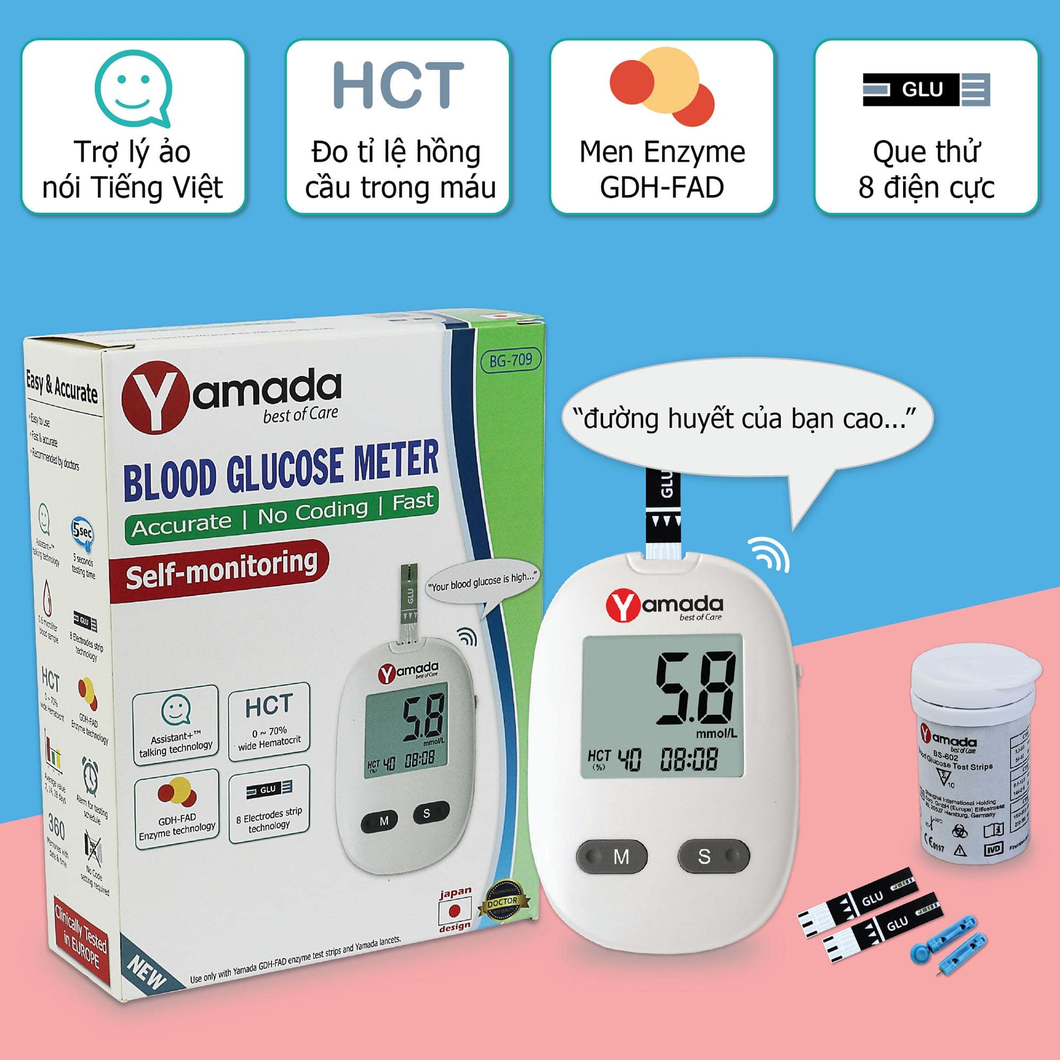
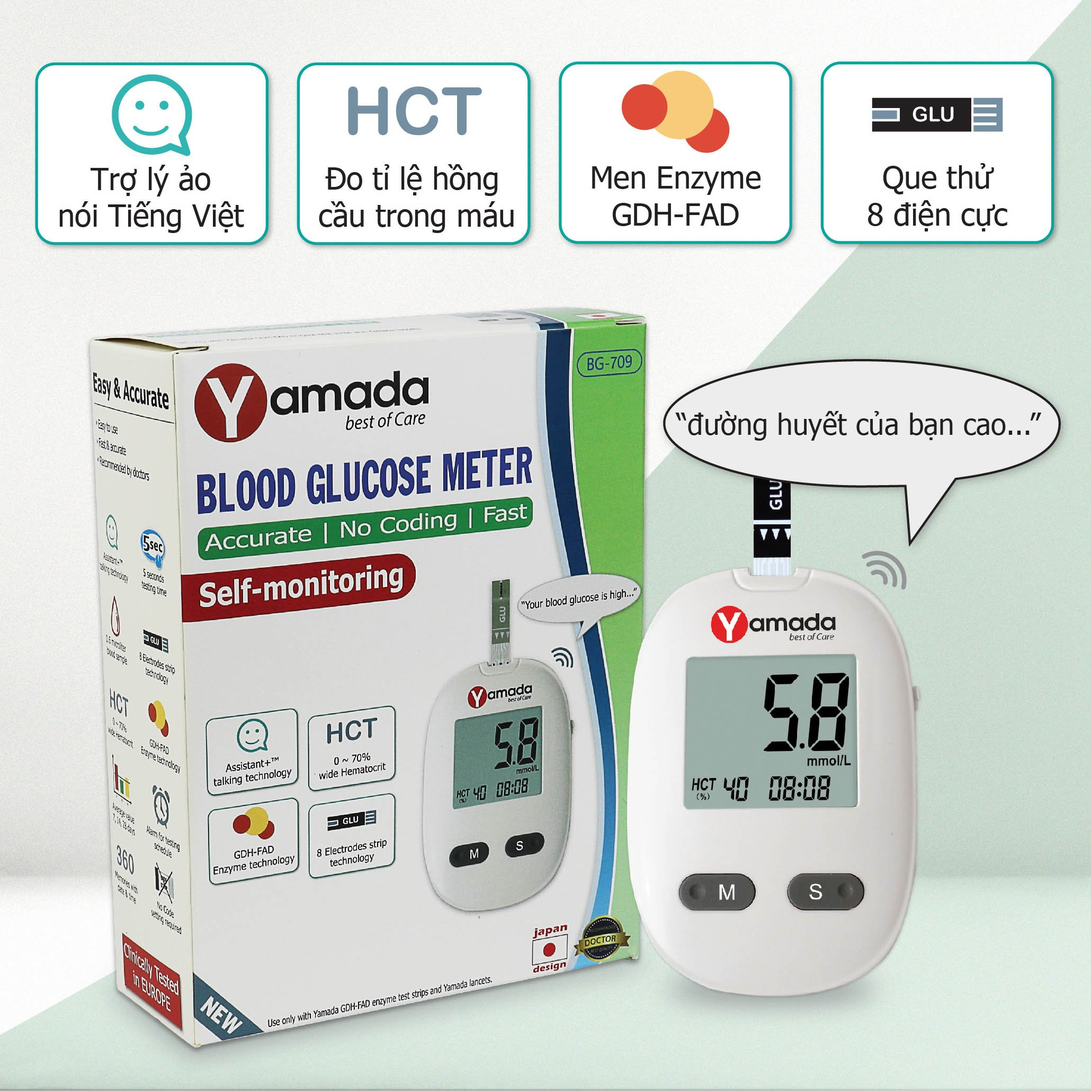
duonghuyet index + huyetap shopping

diff --git a/dohuyetap/shopping.html b/dohuyetap/shopping.html
@@ -141,7 +141,7 @@
         </div>
       </div>
 
-      <h4 class="mt-3">Bạn có muốn thêm phụ kiện chính hãng?</h4>
+      <!-- <h4 class="mt-3">Bạn có muốn thêm phụ kiện chính hãng?</h4>
       <p>
         Các phụ kiện được thiết kế phù hợp hoàn toàn với thiết bị, vui lòng
         không sử dụng phụ kiện không rõ nguồn gốc.
@@ -171,12 +171,12 @@
             </div>
           </div>
         </div>
-      </div>
+      </div> -->
       <p style="max-width: 700px; margin: 10px auto 0">
         <i>
-          * Máy sử dụng pin đũa AAA, mỗi lần thay pin sẽ dùng được được khoảng
-          250 - 300 lần đo. Bộ đổi nguồn cắm điện trực tiếp phù hợp cho khách
-          làm nhà thuốc, phòng khám… có nhu cầu đo nhiều
+          * Trọn bộ sản phẩm bao gồm: Máy đo huyết áp điện tử Yamada, vòng bít
+          đeo tay, túi đựng, bộ đổi nguồn, 4 pin AAA, sách hướng dẫn sử dụng
+          bằng tiếng Việt, thẻ bảo hành.
         </i>
       </p>
 
@@ -547,9 +547,11 @@
                   address: customer.address,
                   email: customer.email,
                   products:
-                    strForEmail(products[0]) + ', ' + strForEmail(products[1]),
-                  // ', ' +
-                  // strForEmail(products[2]),
+                    strForEmail(products[0]) +
+                    ', ' +
+                    strForEmail(products[1]) +
+                    ', ' +
+                    strForEmail(products[2]),
                   total: totalPrice,
                 };
                 //send email
@@ -585,8 +587,8 @@
             let total = 0;
             total +=
               this.finalPriceOf(this.products[0]) +
-              this.finalPriceOf(this.products[1]);
-            // this.finalPriceOf(this.products[2]);
+              this.finalPriceOf(this.products[1]) +
+              this.finalPriceOf(this.products[2]);
             // final result
             return total;
           },

diff --git a/doduonghuyet/css/doduonghuyet.css b/doduonghuyet/css/doduonghuyet.css
@@ -44,9 +44,9 @@ h1 {
   font-size: 2rem;
   text-transform: uppercase;
   font-weight: 800;
-  background-color: rgb(80, 176, 227);
+  background: linear-gradient(-90deg, #fafafa, #fafaf2, #ebece9);
   padding: 20px 0 10px 0;
-  color: var(--light);
+  color: #202020;
   margin-bottom: 0;
 }
 .section-title {

diff --git a/doduonghuyet/index.html b/doduonghuyet/index.html
@@ -136,7 +136,7 @@
       <h1 class="text-center">Máy đo đường huyết YAMADA</h1>
 
       <img
-        data-original="image/banner.jpg"
+        data-original="/assets/img/duonghuyet.jpg"
         class="img-fluid lazy"
         alt="banner may do duong huyet"
       />
